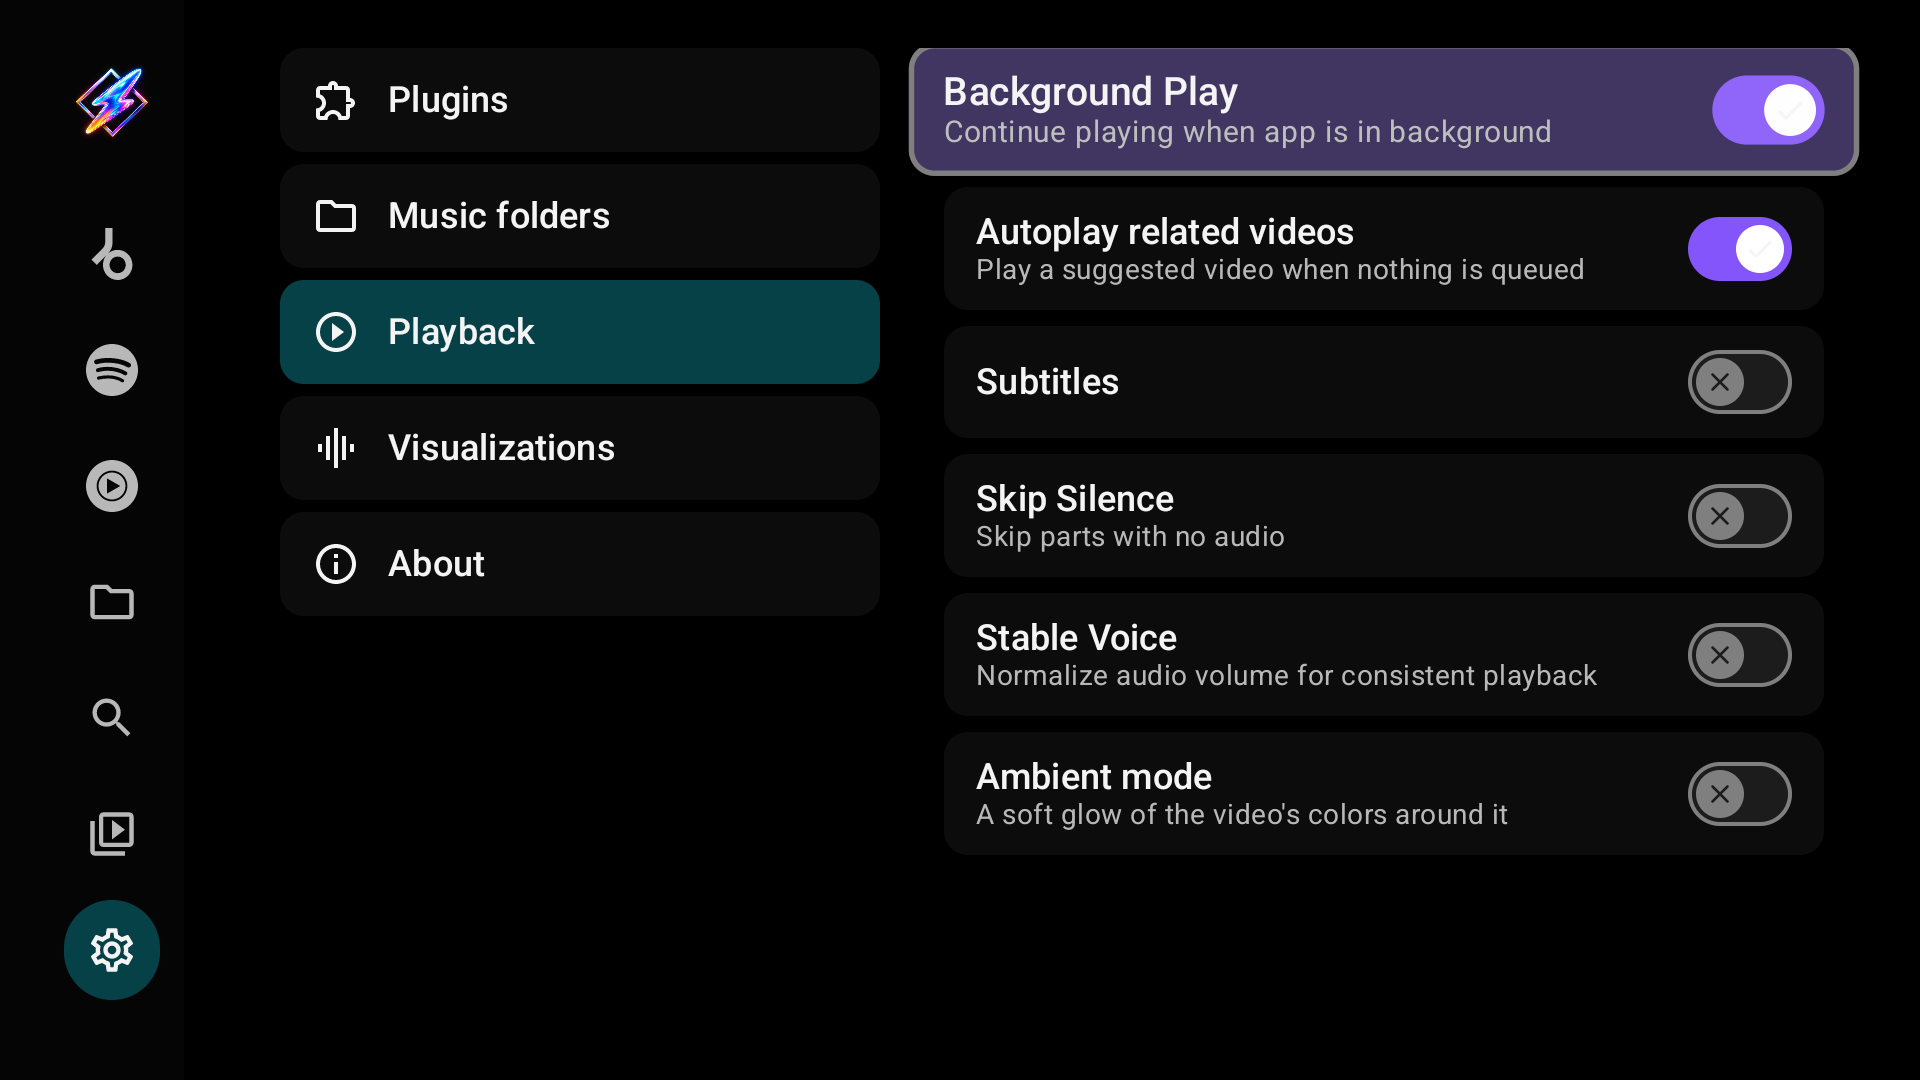
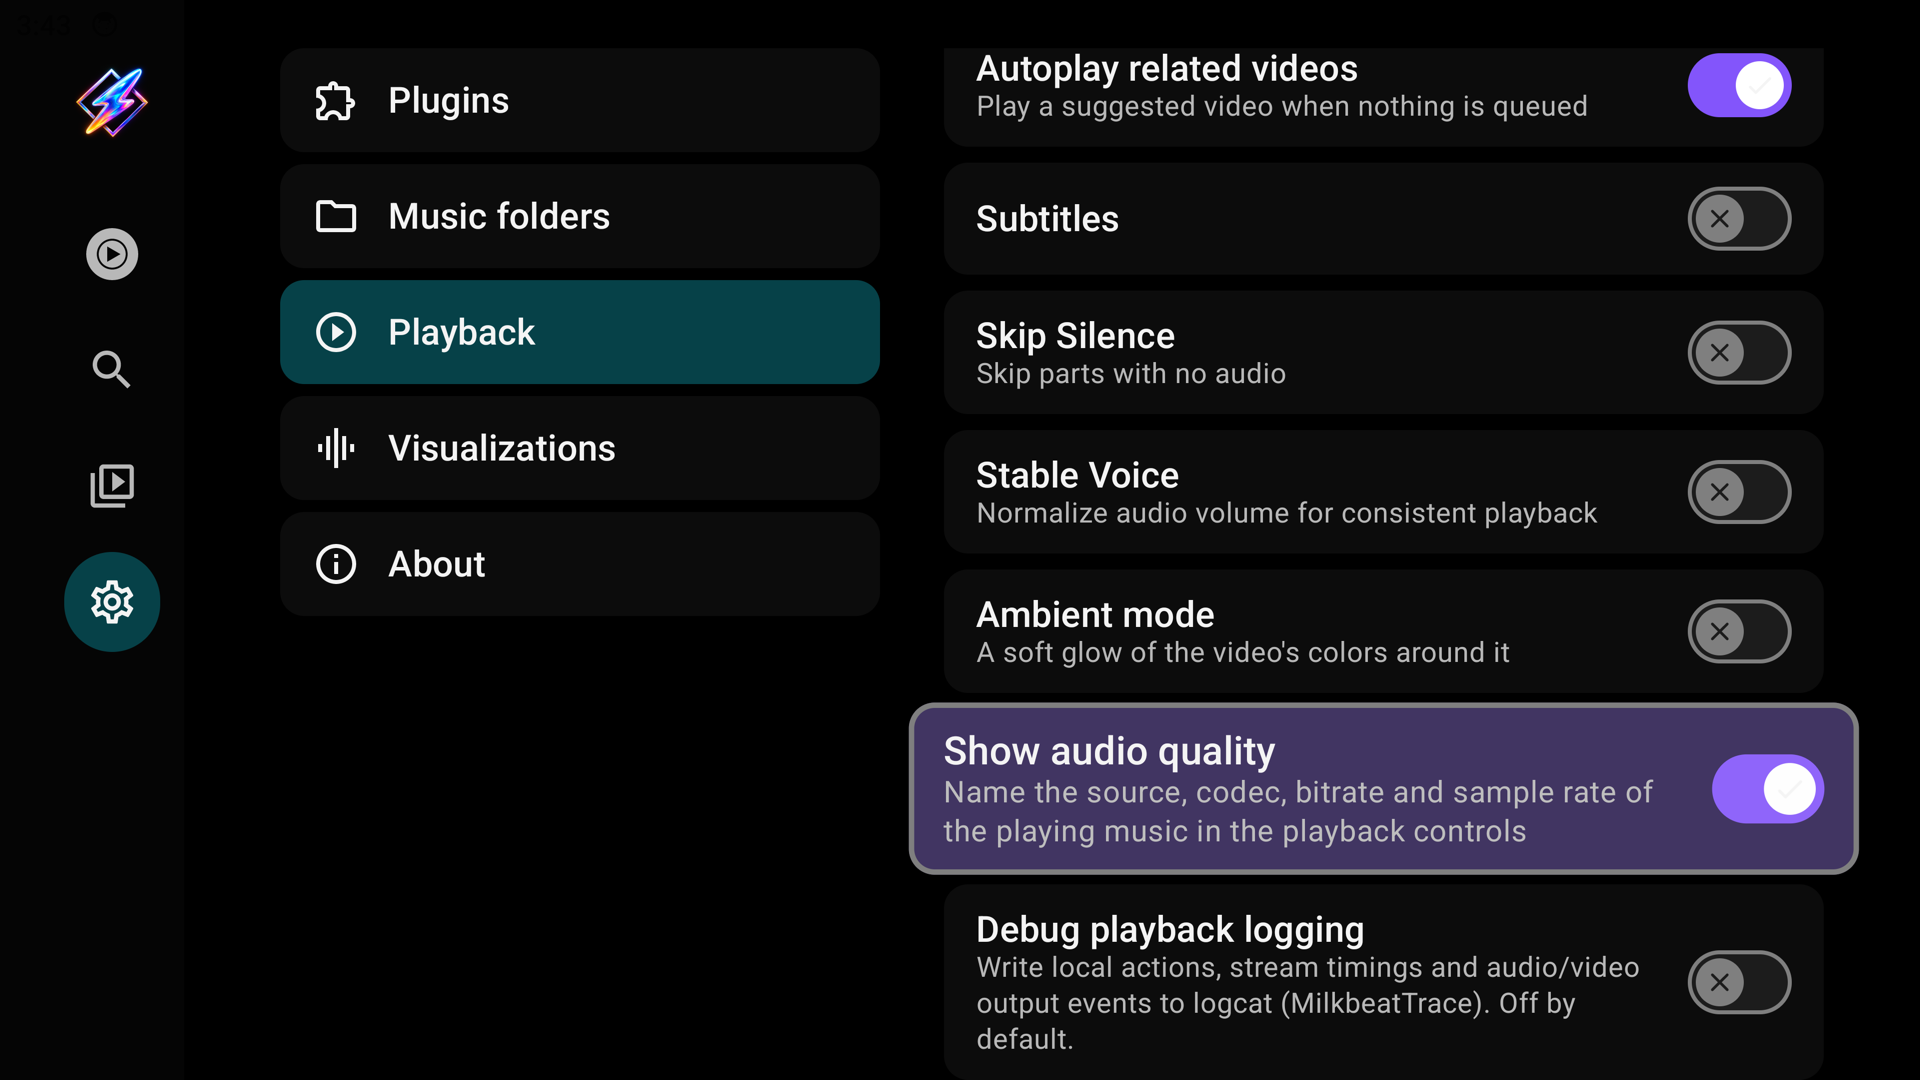
docs: show the audio quality line in the guide

diff --git a/docs/user-guide/playback.md b/docs/user-guide/playback.md
@@ -8,6 +8,7 @@ Selecting a track, **Play** or **Shuffle** opens the full player. The track's co
 
 | Control | What it does |
 | --- | --- |
+| Audio quality (optional) | The source, codec, bitrate and sample rate of the playing music; see [Audio quality](#audio-quality) |
 | Audio level (visualizer only) | **Listening**, **Very quiet** or **No sound**: what the visualizer currently hears |
 | Seek bar | Elapsed and total time of the track |
 | Shuffle, Previous, Play/pause, Next, Repeat | The usual queue controls |
@@ -19,16 +20,19 @@ The controls hide on their own after a few seconds. With them hidden, **Left** a
 
 ## Audio quality
 
-Turn on **Show audio quality** in [Settings → Playback](settings.md#playback) to see what is playing at the top of the controls, in every view:
+Turn on **Show audio quality** in [Settings → Playback](settings.md#playback) to see what is playing at the top of the controls, in every view.
+
+![The controls with the audio quality line: YouTube Video · 134 kb/s Opus · 48 kHz](images/player-audio-quality.jpg)
 
 | Example | Meaning |
 | --- | --- |
-| `Deezer · 1411 kb/s FLAC · 44.1 kHz / 16-bit` | CD-quality lossless from the Deezer plugin |
-| `Deezer · 320 kb/s MP3 · 44.1 kHz` | A high-quality MP3 |
-| `YouTube Music · 160 kb/s Opus · 48 kHz` | Opus from a YouTube Music stream |
-| `SMB · 4608 kb/s FLAC · 96 kHz / 24-bit` | A hi-res file from an SMB share |
+| `YouTube Video · 134 kb/s Opus · 48 kHz` | Opus from the YouTube Video plugin, at the bitrate the plugin reported |
+| `On this device · 1411 kb/s FLAC · 44.1 kHz / 16-bit` | A CD-quality FLAC file on the TV's storage |
+| `On this device · 4608 kb/s FLAC · 96 kHz / 24-bit` | A hi-res FLAC file |
+| `On this device · 320 kb/s MP3 · 44.1 kHz` | A 320 kb/s MP3 |
+| `On this device · Opus · 48 kHz` | An Ogg Opus file: the file states no bitrate |
 
-The first part names the source: the audio plugin that resolved the track, **On this device** for local files, the protocol for a [network folder](folders.md), or **Downloaded** when an offline copy plays. The rest comes from the audio track the player decodes, not from a provider's label, so it is accurate for every source. A lossless format (FLAC, ALAC, PCM) shows its decoded rate, which is how providers describe CD and hi-res quality. When the stream itself carries no bitrate, the line uses the bitrate the plugin reported; parts that neither reveals are left out. The line appears once the track's audio is loaded and updates when the track changes.
+The first part names the source: the audio plugin that resolved the track (a Deezer FLAC stream reads `Deezer · 1411 kb/s FLAC · 44.1 kHz / 16-bit`), **On this device** for local files, the protocol (SMB, WebDAV, SFTP or NFS) for a [network folder](folders.md), or **Downloaded** when an offline copy plays. The rest comes from the audio track the player decodes rather than a provider's label. A lossless format (FLAC, ALAC, PCM) shows its decoded rate, which is how providers describe CD and hi-res quality; other formats show the bitrate stored in the stream, or else the one the plugin reported. Parts that neither reveals are left out. The line appears once the track's audio is loaded and changes with the track.
 
 ## Visualizer, music video or artwork
 

diff --git a/AGENTS.md b/AGENTS.md
@@ -932,6 +932,13 @@ run that occupies a physical device, and the resulting diff is thousands of line
 - Reuse `ui/components/shared/QrCodeImage.kt` for QR presentation across features; its existing
   ZXing rendering and quiet zone remain shared by device pairing and the web sign-in viewer.
 
+- The optional now-playing audio-quality line (Settings → Playback → Show audio quality, its own
+  `audio_quality_readout` DataStore) is derived in `player/audio/PlaybackAudioQuality.kt` from
+  Media3's selected audio track format, with the accepted plugin stream's declared bitrate as
+  fallback. `service/MusicServiceAudioQuality.kt` publishes it on track/item change only (no polling;
+  the download-index lookup runs on diskIO) through `EnhancedMusicPlayerManager.audioQuality`.
+  `TvAudioQualityStatus.kt` returns no status slot while it is off, keeping the controls layout.
+  Focused regression: `./gradlew :app:testGithubDebugUnitTest --tests '*PlaybackAudioQualityTest'`.
 - Video-capable audio providers use `AudioMatchStrategy.VIDEOS` for ordinary matching, queue preparation, preloads and mirror batches. Keep successful matches, scope misses/in-flight work by strategy, and preserve source metadata/IDs. `PluginAudio.videoCapablePlaybackIds` is a cold event-driven Flow of candidate IDs derived from accepted caches and account/provider context. The current Media3 item must also report a supported video track; track-change events update Now Playing eligibility on main, preventing cached metadata from exposing Video for audio-only HLS or completed downloads. Matching alone must not load picture. API 7's prepared DASH manifest is shared by eligibility and source construction; native SABR and eligible HLS retain picture support. Separate progressive picture URLs stay audio-only in music playback rather than preparing a hidden child. Explicit Video selection uses the prepared presentation's track selection and existing Media3 surface gating without replacing or seeking audio.
 - The existing `githubNightly` build is the separate preview app (`nl.neerdael.milkbeat.nightly`, launcher label Milkbeat Preview), debug-signed with release-like shrinking. Use `:app:assembleGithubNightly` and build-property `milkbeatPatch` for an explicit test artifact; do not manually bump app version files. A test prerelease must remain unmerged until the maintainer tests it. Its optional signed provider package is distributed through Buzzheavier; stable publication checkpoints/catalogs remain separate. Nightly/Preview downloader codes are pinned to `app/src/nightly/assets/plugin-preview-download-catalog.json`; stable builds retain the main asset and live publication.
 

diff --git a/docs/user-guide/settings.md b/docs/user-guide/settings.md
@@ -45,7 +45,7 @@ See [Local and network folders](folders.md) for every field and server requireme
 
 ## Playback
 
-![Settings → Playback with Background Play, Autoplay related videos, Subtitles, Skip Silence, Stable Voice and Ambient mode](images/settings-playback-current.png)
+![Settings → Playback with Show audio quality switched on below Ambient mode, and Debug playback logging](images/settings-playback-current.png)
 
 | Setting | What it does |
 | --- | --- |
